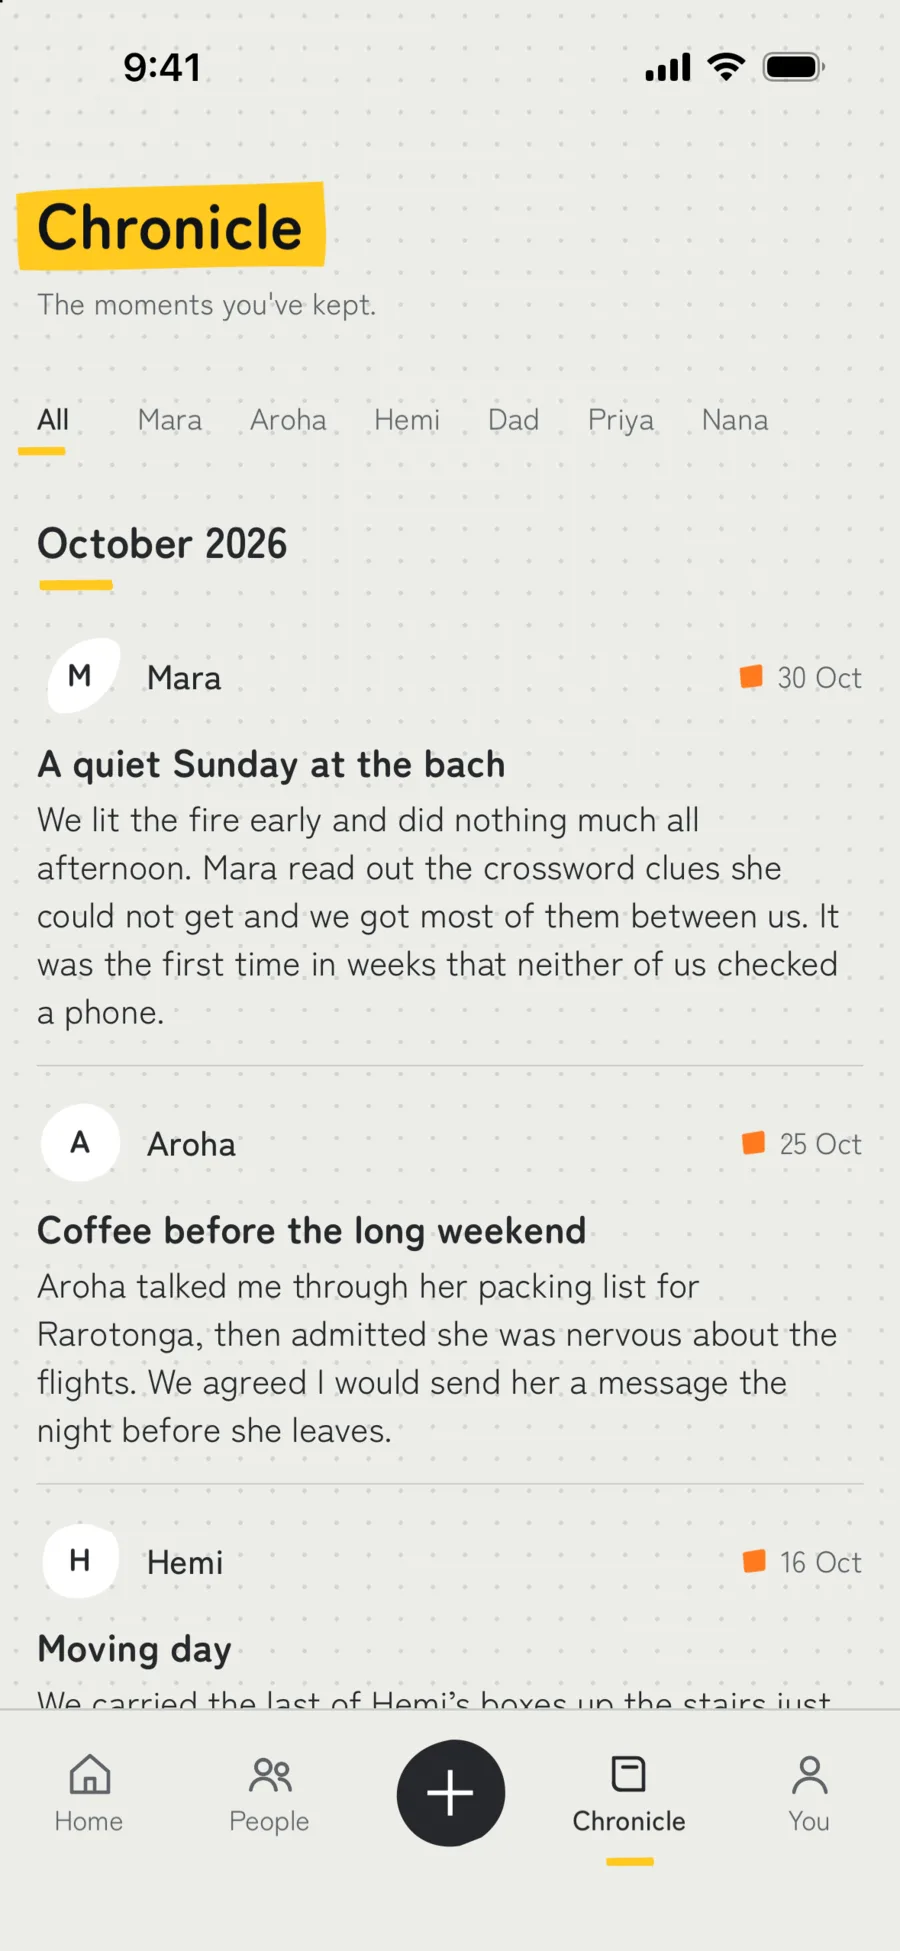
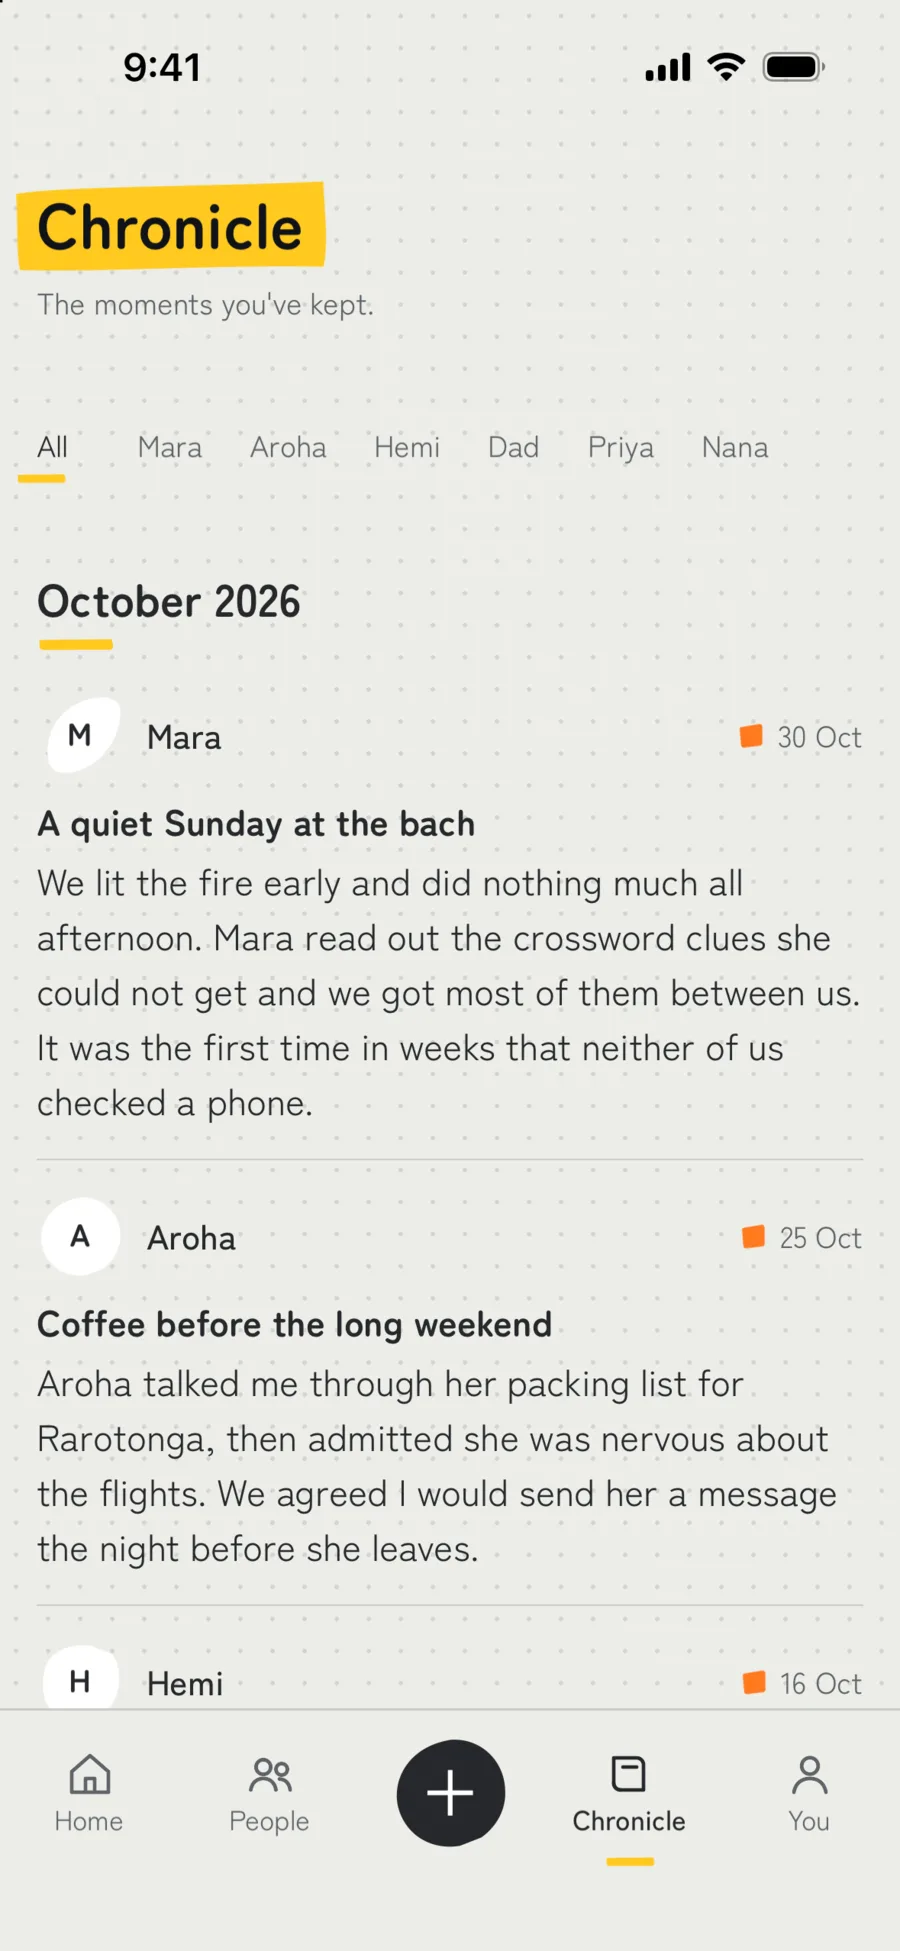
Use the app's new screens on the site

diff --git a/index.html b/index.html
@@ -77,7 +77,7 @@
         </div>
       </div>
       <div class="why-art">
-        <figure class="phone crop whyp pop" style="--crop:.781;--tilt:-2deg;--k:50"><img src="assets/screens/people.webp" width="900" height="1951" loading="lazy" decoding="async" alt="The People screen, grouped into Inner Circle and Family."></figure>
+        <figure class="phone crop whyp pop" style="--crop:.705;--tilt:-2deg;--k:50"><img src="assets/screens/people.webp" width="900" height="1951" loading="lazy" decoding="async" alt="The People screen, grouped into Inner Circle and Family."></figure>
       </div>
     </div>
   </section>
@@ -170,7 +170,7 @@
         <p class="big">Each person has their own page with their birthday, what’s coming up and every note you’ve written about them. You can sort people into circles like Family or Friends, and add them by hand or pick them from your contacts.</p>
       </div>
       <div class="two-art">
-        <figure class="phone crop giant pop" style="--crop:.826;--tilt:1.5deg;--k:49"><img src="assets/screens/person.webp" width="900" height="1951" loading="lazy" decoding="async" alt="Dad’s page: his drink, his birthday, what’s coming up, and notes marked by kind."></figure>
+        <figure class="phone crop giant pop" style="--crop:.76;--tilt:1.5deg;--k:49"><img src="assets/screens/person.webp" width="900" height="1951" loading="lazy" decoding="async" alt="Dad’s page: his drink, his birthday, what’s coming up, and notes marked by kind."></figure>
       </div>
     </div>
   </section>
@@ -181,7 +181,7 @@
     <svg class="shape wshape pop" data-shape="circle" data-seed="51" viewBox="0 0 100 100" preserveAspectRatio="none" aria-hidden="true" style="--tilt:-4deg"><path d="M50 6 C74 4 95 22 96 48 C97 63 90 78 76 88 L58 95 C34 99 12 86 6 62 C1 40 14 12 50 6 Z"/></svg>
     <div class="in two two-flip">
       <div class="two-art">
-        <figure class="phone crop giant pop" style="--crop:.725;--tilt:-1.5deg;--k:57"><img src="assets/screens/home.webp" width="900" height="1951" loading="lazy" decoding="async" alt="The Home screen with this week’s birthdays and reminders."></figure>
+        <figure class="phone crop giant pop" style="--crop:.79;--tilt:-1.5deg;--k:57"><img src="assets/screens/home.webp" width="900" height="1951" loading="lazy" decoding="async" alt="The Home screen with this week’s birthdays and reminders."></figure>
       </div>
       <div class="two-text">
         <h2 class="d2 hd" id="week-t" data-chunks>Home keeps <span class="hl">your week</span> in order.</h2>
@@ -200,7 +200,7 @@
         <p class="big">The You screen shows the last three months at a glance, which is handy for spotting someone you’ve lost touch with.</p>
       </div>
       <div class="two-art chron-art">
-        <figure class="phone crop giant pop" style="--crop:.763;--tilt:1.5deg;--k:53"><img src="assets/screens/chronicle.webp" width="900" height="1951" loading="lazy" decoding="async" alt="The Chronicle: dated entries such as A quiet Sunday at the bach."></figure>
+        <figure class="phone crop giant pop" style="--crop:.83;--tilt:1.5deg;--k:53"><img src="assets/screens/chronicle.webp" width="900" height="1951" loading="lazy" decoding="async" alt="The Chronicle: dated entries such as A quiet Sunday at the bach."></figure>
         <p class="slip s1 pop" style="--tilt:-4deg;--d:.5s"><i aria-hidden="true"></i><span>30 Oct</span><b>A quiet Sunday at the bach</b></p>
         <p class="slip s2 pop" style="--tilt:3deg;--d:.75s"><i aria-hidden="true"></i><span>25 Oct</span><b>Coffee before the long weekend</b></p>
         <p class="slip s3 pop" style="--tilt:-2deg;--d:1s"><i aria-hidden="true"></i><span>16 Oct</span><b>Moving day</b></p>
@@ -228,7 +228,7 @@
             <li style="--s:#FFC91F;--i:4"><i></i>Colour Block</li>
           </ul>
         </div>
-        <figure class="phone crop tp" style="--crop:.725;"><img src="assets/screens/skin-graph-paper.webp" width="640" height="1387" loading="lazy" decoding="async" alt="Home in the Graph Paper skin: dotted paper with a yellow highlight."></figure>
+        <figure class="phone crop tp" style="--crop:.79;"><img src="assets/screens/skin-graph-paper.webp" width="640" height="1387" loading="lazy" decoding="async" alt="Home in the Graph Paper skin: dotted paper with a yellow highlight."></figure>
       </div>
     </div>
   </section>
@@ -259,7 +259,7 @@
             </ul>
             <p>The full detail’s in the <a href="docs/privacy.html">privacy policy</a> and the <a href="docs/terms.html">terms</a>.</p>
           </div>
-          <figure class="phone crop pphone pop" style="--crop:.7;--tilt:2deg"><img src="assets/screens/privacy.webp" width="900" height="1951" loading="lazy" decoding="async" alt="Settings, showing Noted and Known Full, Storage set to Local only, and a note that exported files aren’t encrypted."></figure>
+          <figure class="phone crop pphone pop" style="--crop:.78;--tilt:2deg"><img src="assets/screens/privacy.webp" width="900" height="1951" loading="lazy" decoding="async" alt="Settings, showing Noted and Known Full, Storage set to Local only, and a note that exported files aren’t encrypted."></figure>
         </div>
       </div>
     </div>
